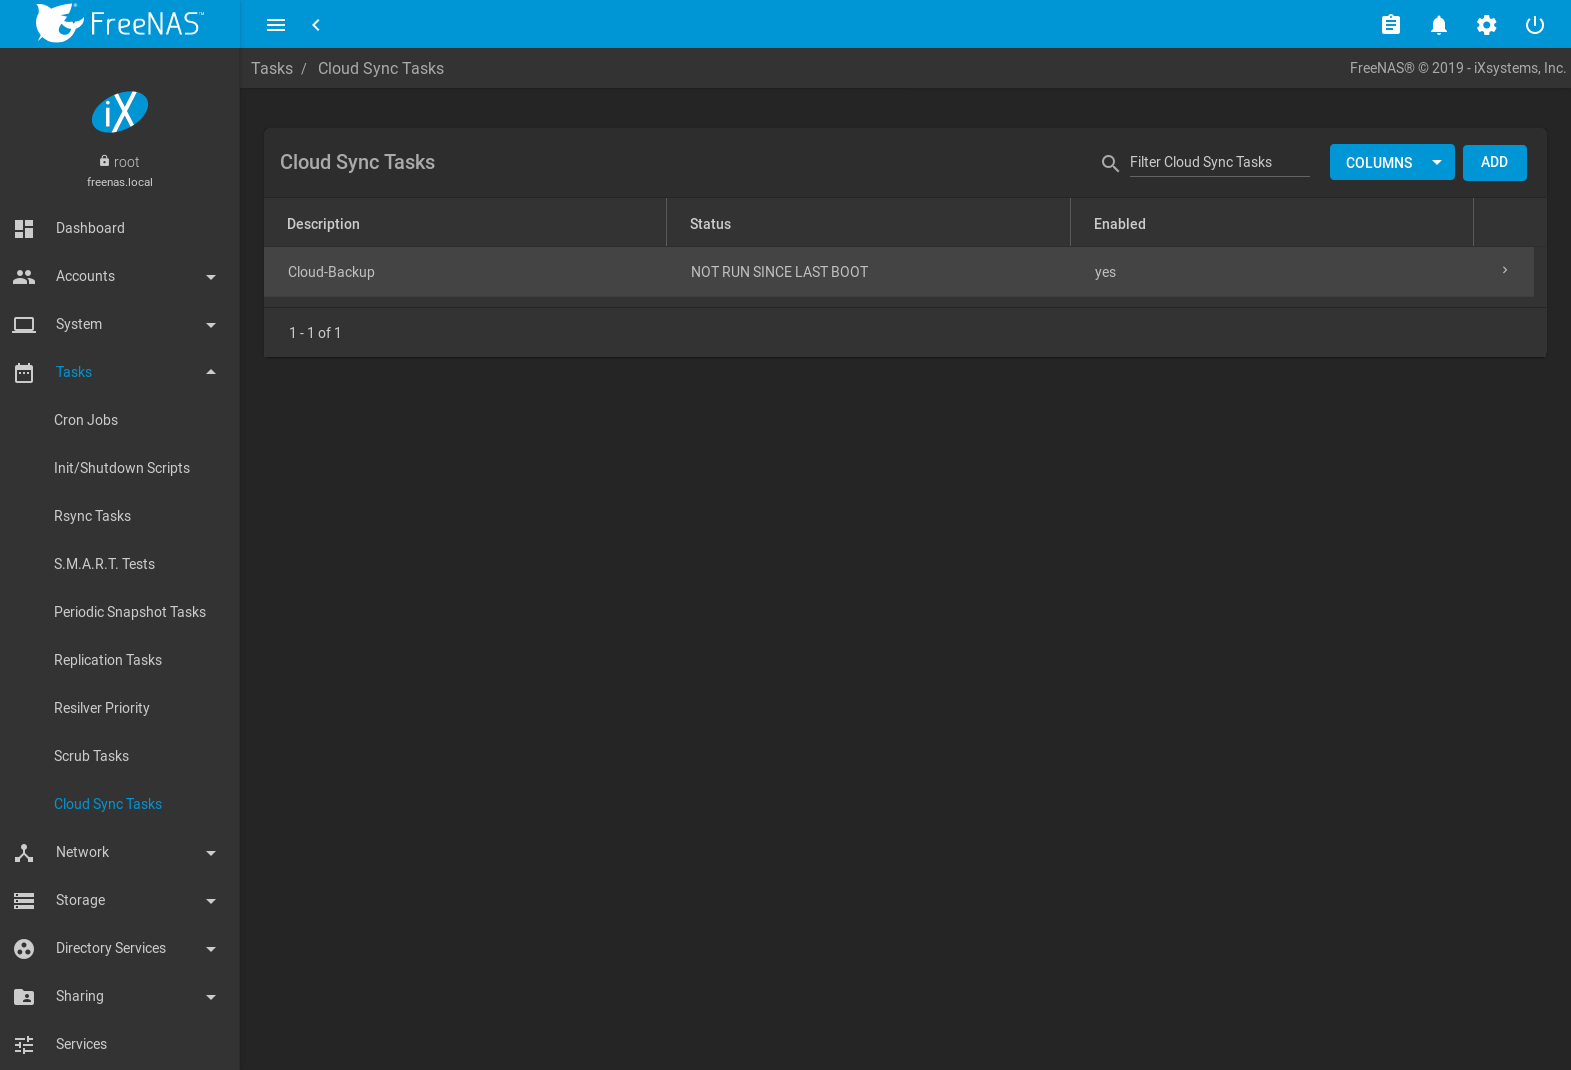
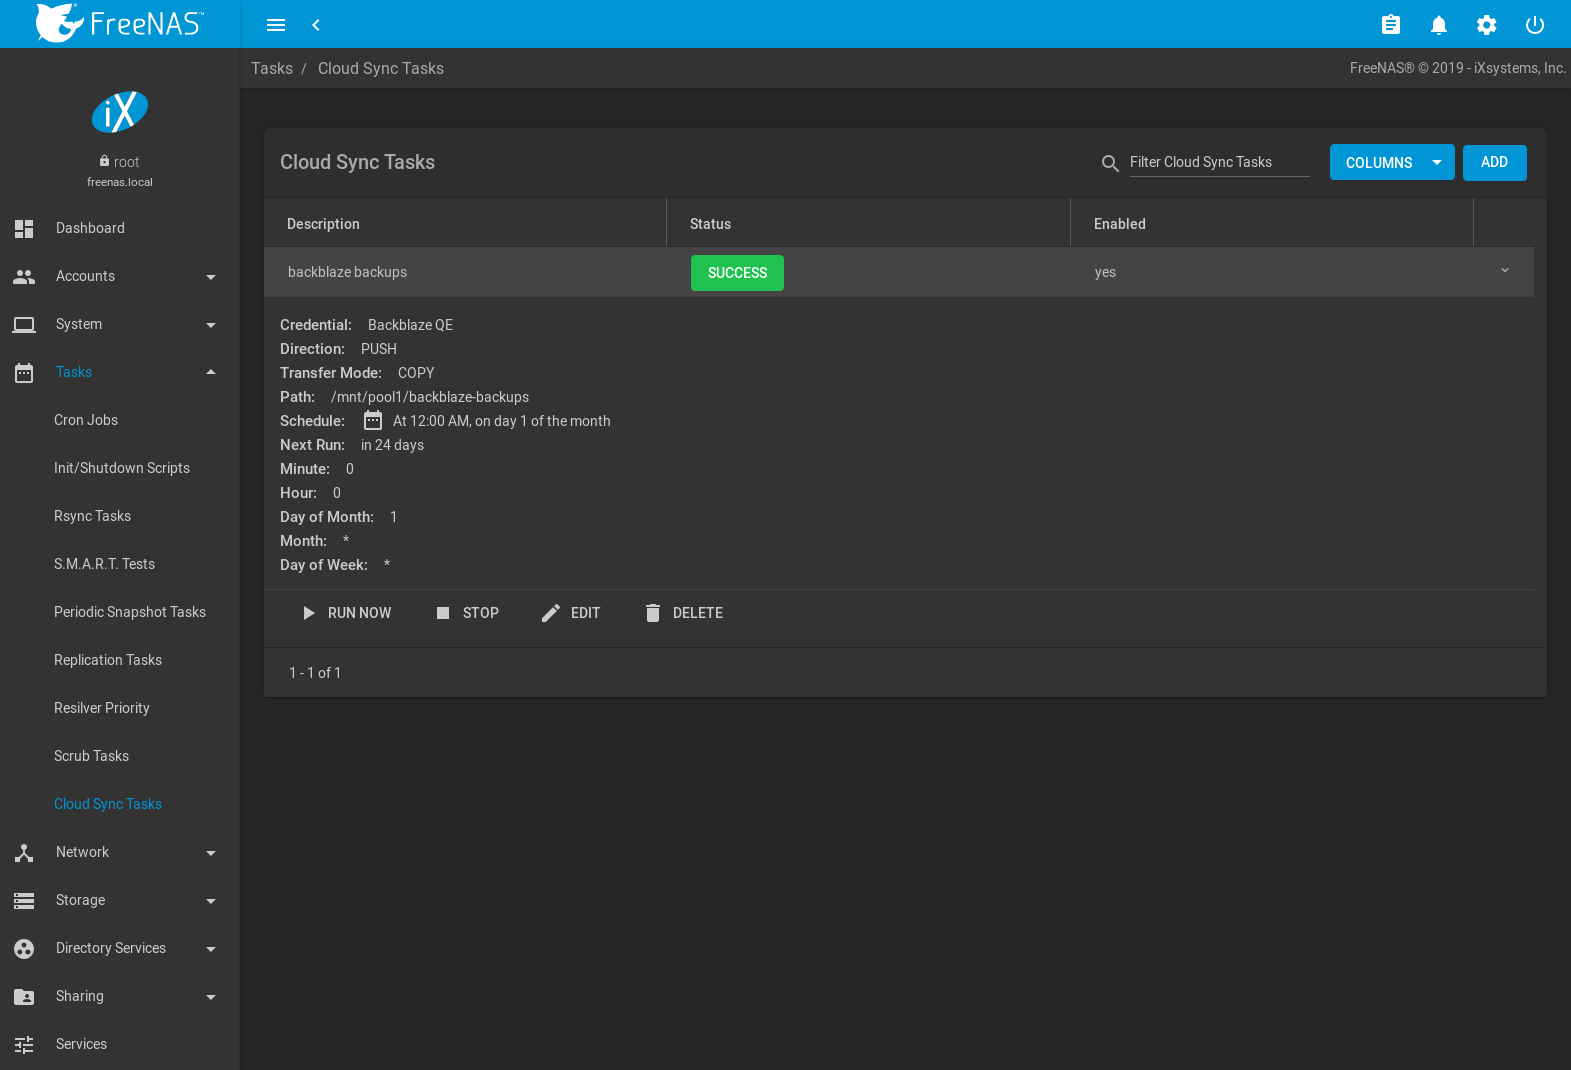
NAS-103292: Update cloud sync status description: - Update text to include descriptions of opening task logs. - Update cloud sync tasks screenshot. - HTML build test: no issues

diff --git a/userguide/tasks.rst b/userguide/tasks.rst
@@ -1598,15 +1598,10 @@ An example is shown in
    Cloud Sync Status
 
 
-When a cloud sync task has run, :literal:`SUCCESS`,
-:literal:`FAILURE`, or :literal:`ABORTED` is shown. :literal:`ABORTED`
-is shown when a cloud sync was stopped before completion. If a cloud
-sync task failed, a short description of why it failed is displayed
-after :literal:`FAILURE`. Click :guilabel:`SUCCESS`,
-:guilabel:`FAILURE`, or :guilabel:`ABORTED` when the cloud sync task
-is finished to open the :guilabel:`Logs` window. This window displays
-logs related to the task that ran. Click :guilabel:`DOWNLOAD LOGS` to
-download the :file:`.log` files.
+The cloud sync :guilabel:`Status` indicates the state of the currently
+running cloud sync or the result of the last cloud sync. Clicking the
+:guilabel:`Status` entry shows the cloud sync task logs and includes an
+option to download the task log.
 
 Click |ui-add| to display the :guilabel:`Add Cloud Sync` menu shown in
 :numref:`Figure %s <tasks_cloudsync_add_fig>`.
